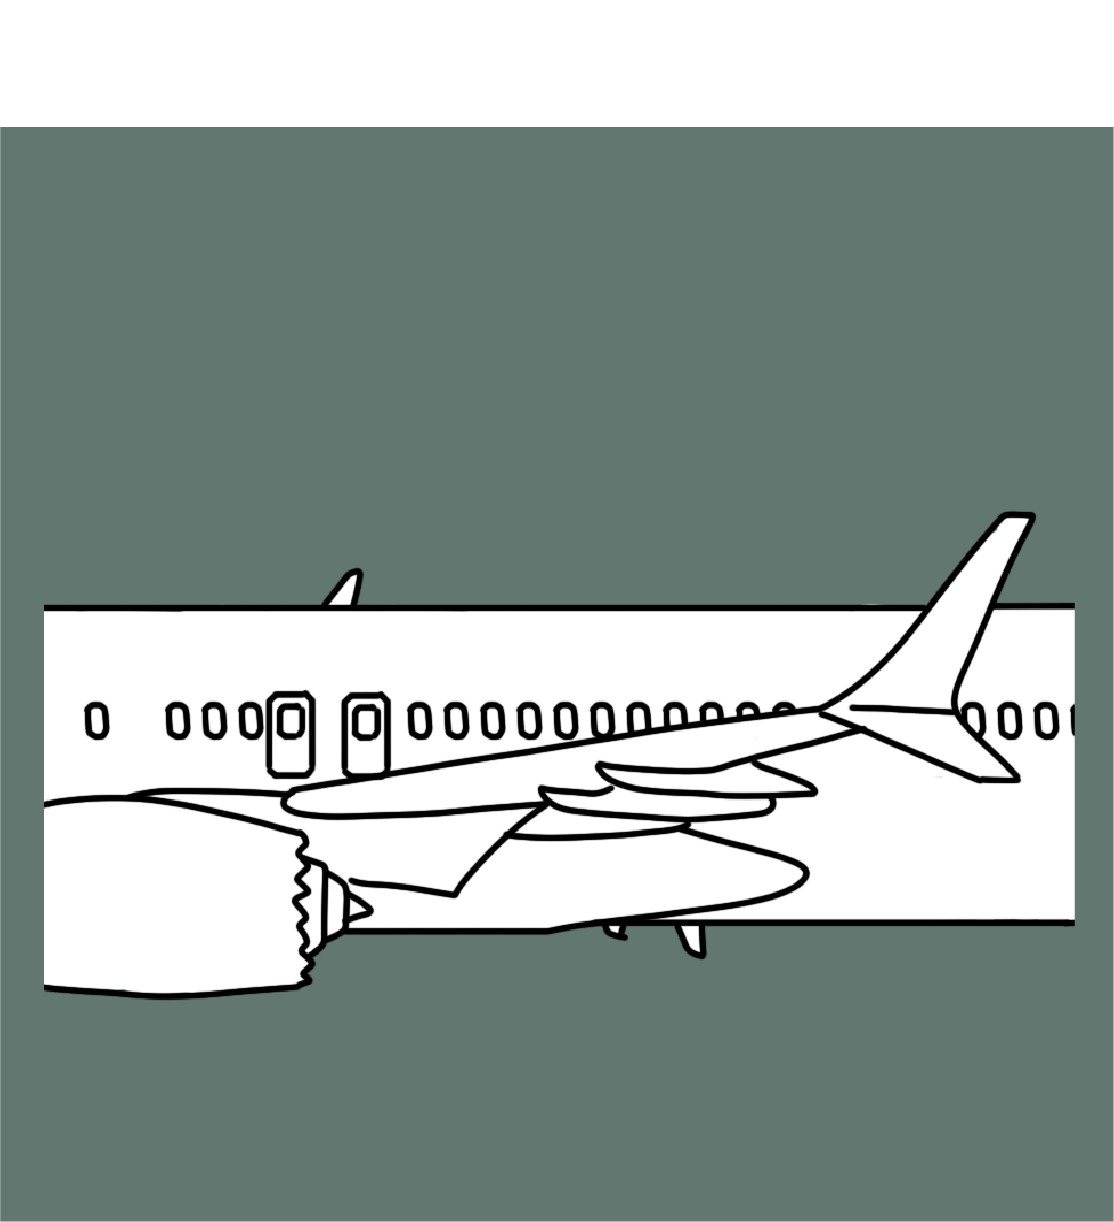
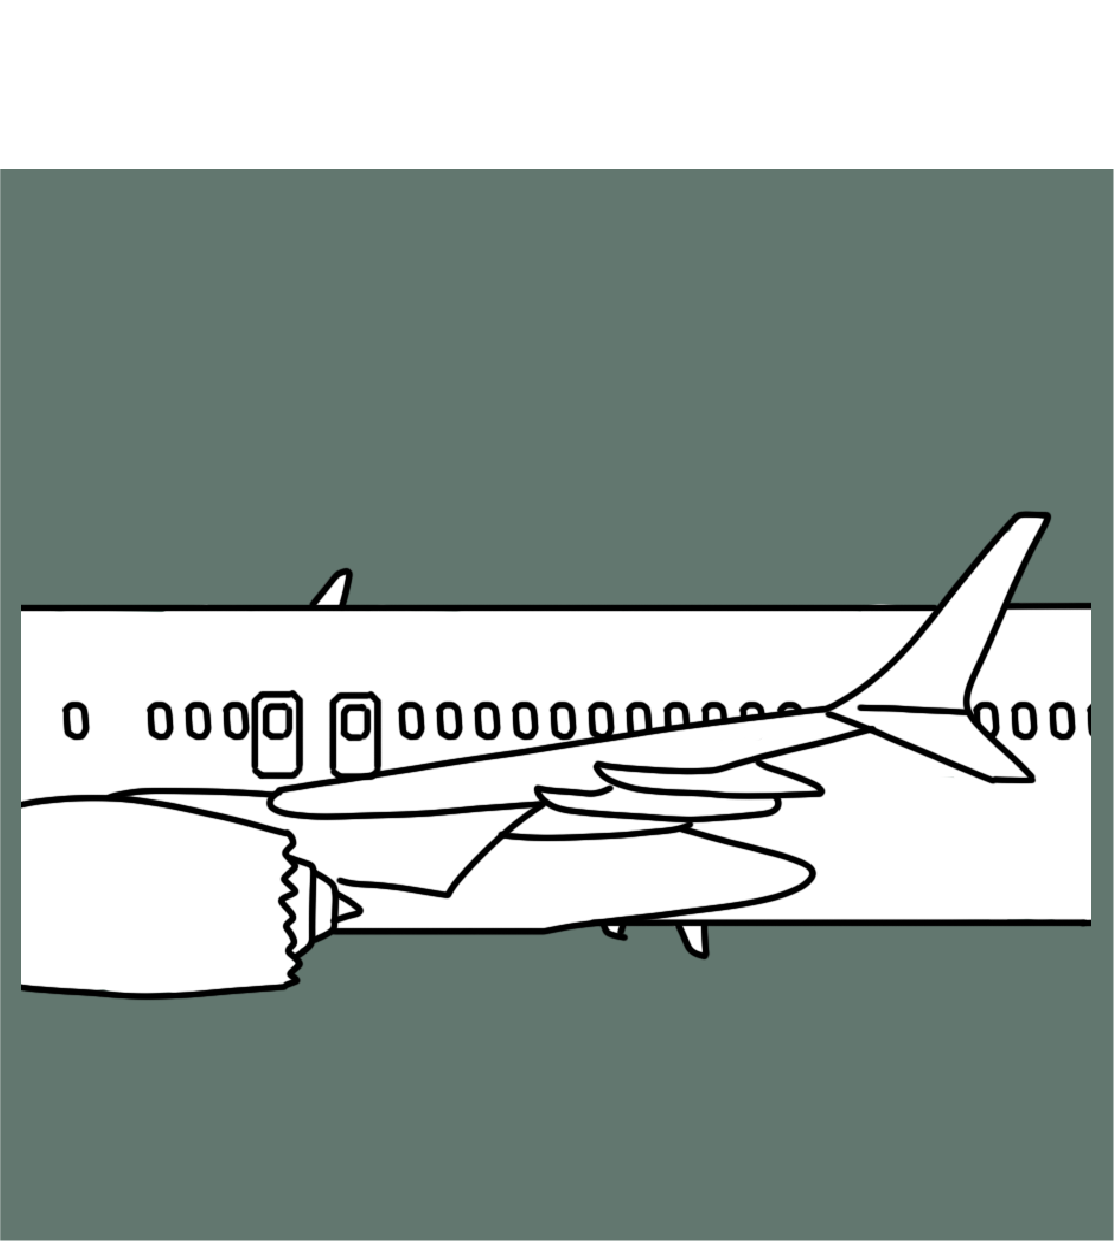
modif section--imgline
img même taille et gaps ok

Changed region(s): [[0.0, 0.4043, 1.0, 0.8396], [0.0, 0.0933, 1.0, 0.1555]]

diff --git a/src/styles/app.scss b/src/styles/app.scss
@@ -376,6 +376,8 @@ p{
         display: grid;
         justify-content: center;
         font-size: 0;
+        margin-bottom: 97px;
+        gap: 10px;
     }
     .img--avion1{
         grid-column: 1/2;
@@ -383,12 +385,12 @@ p{
         grid-row: 1/-1;
     }
     .img--avion2{
-        grid-column: 3/4;
+        grid-column: 2/3;
         width: 100%;
         grid-row: 1/-1;
     }
     .img--avion3{
-        grid-column: 4/5;
+        grid-column: 3/4;
         width: 100%;
         grid-row: 1/-1;
     }
